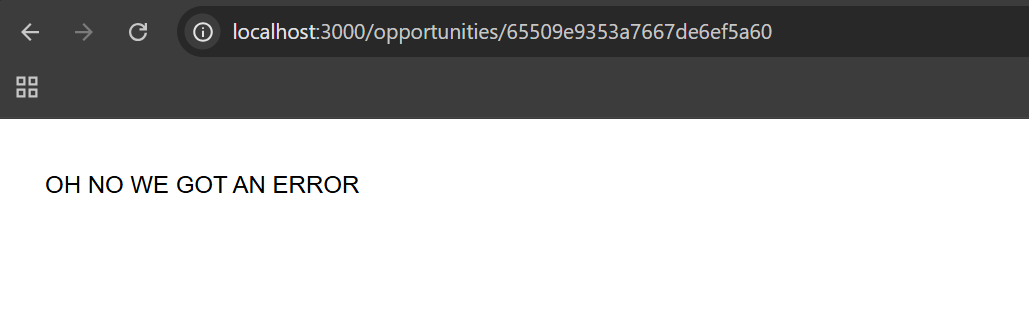
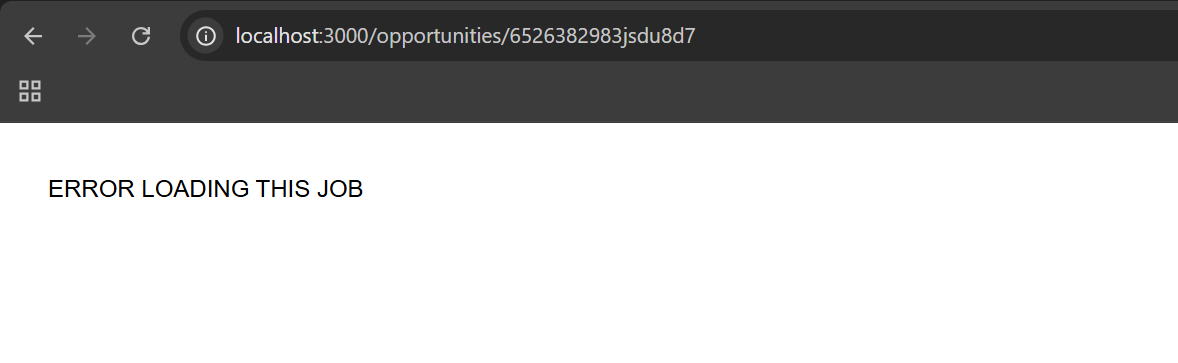
Commit

diff --git a/app/opportunities/[opportunityId]/Job.tsx b/app/opportunities/[opportunityId]/Job.tsx
@@ -7,7 +7,7 @@ const Job = ({ opportunityId }) => {
     const { data, isError, isLoading } = useGetOpportunityByIdQuery(opportunityId)
 
     if (isError) {
-        return <h1> OH NO WE GOT AN ERROR</h1>
+        return <h1> ERROR LOADING THIS JOB</h1>
     }
     if (isLoading) {
         return <h1>Loading...</h1>
